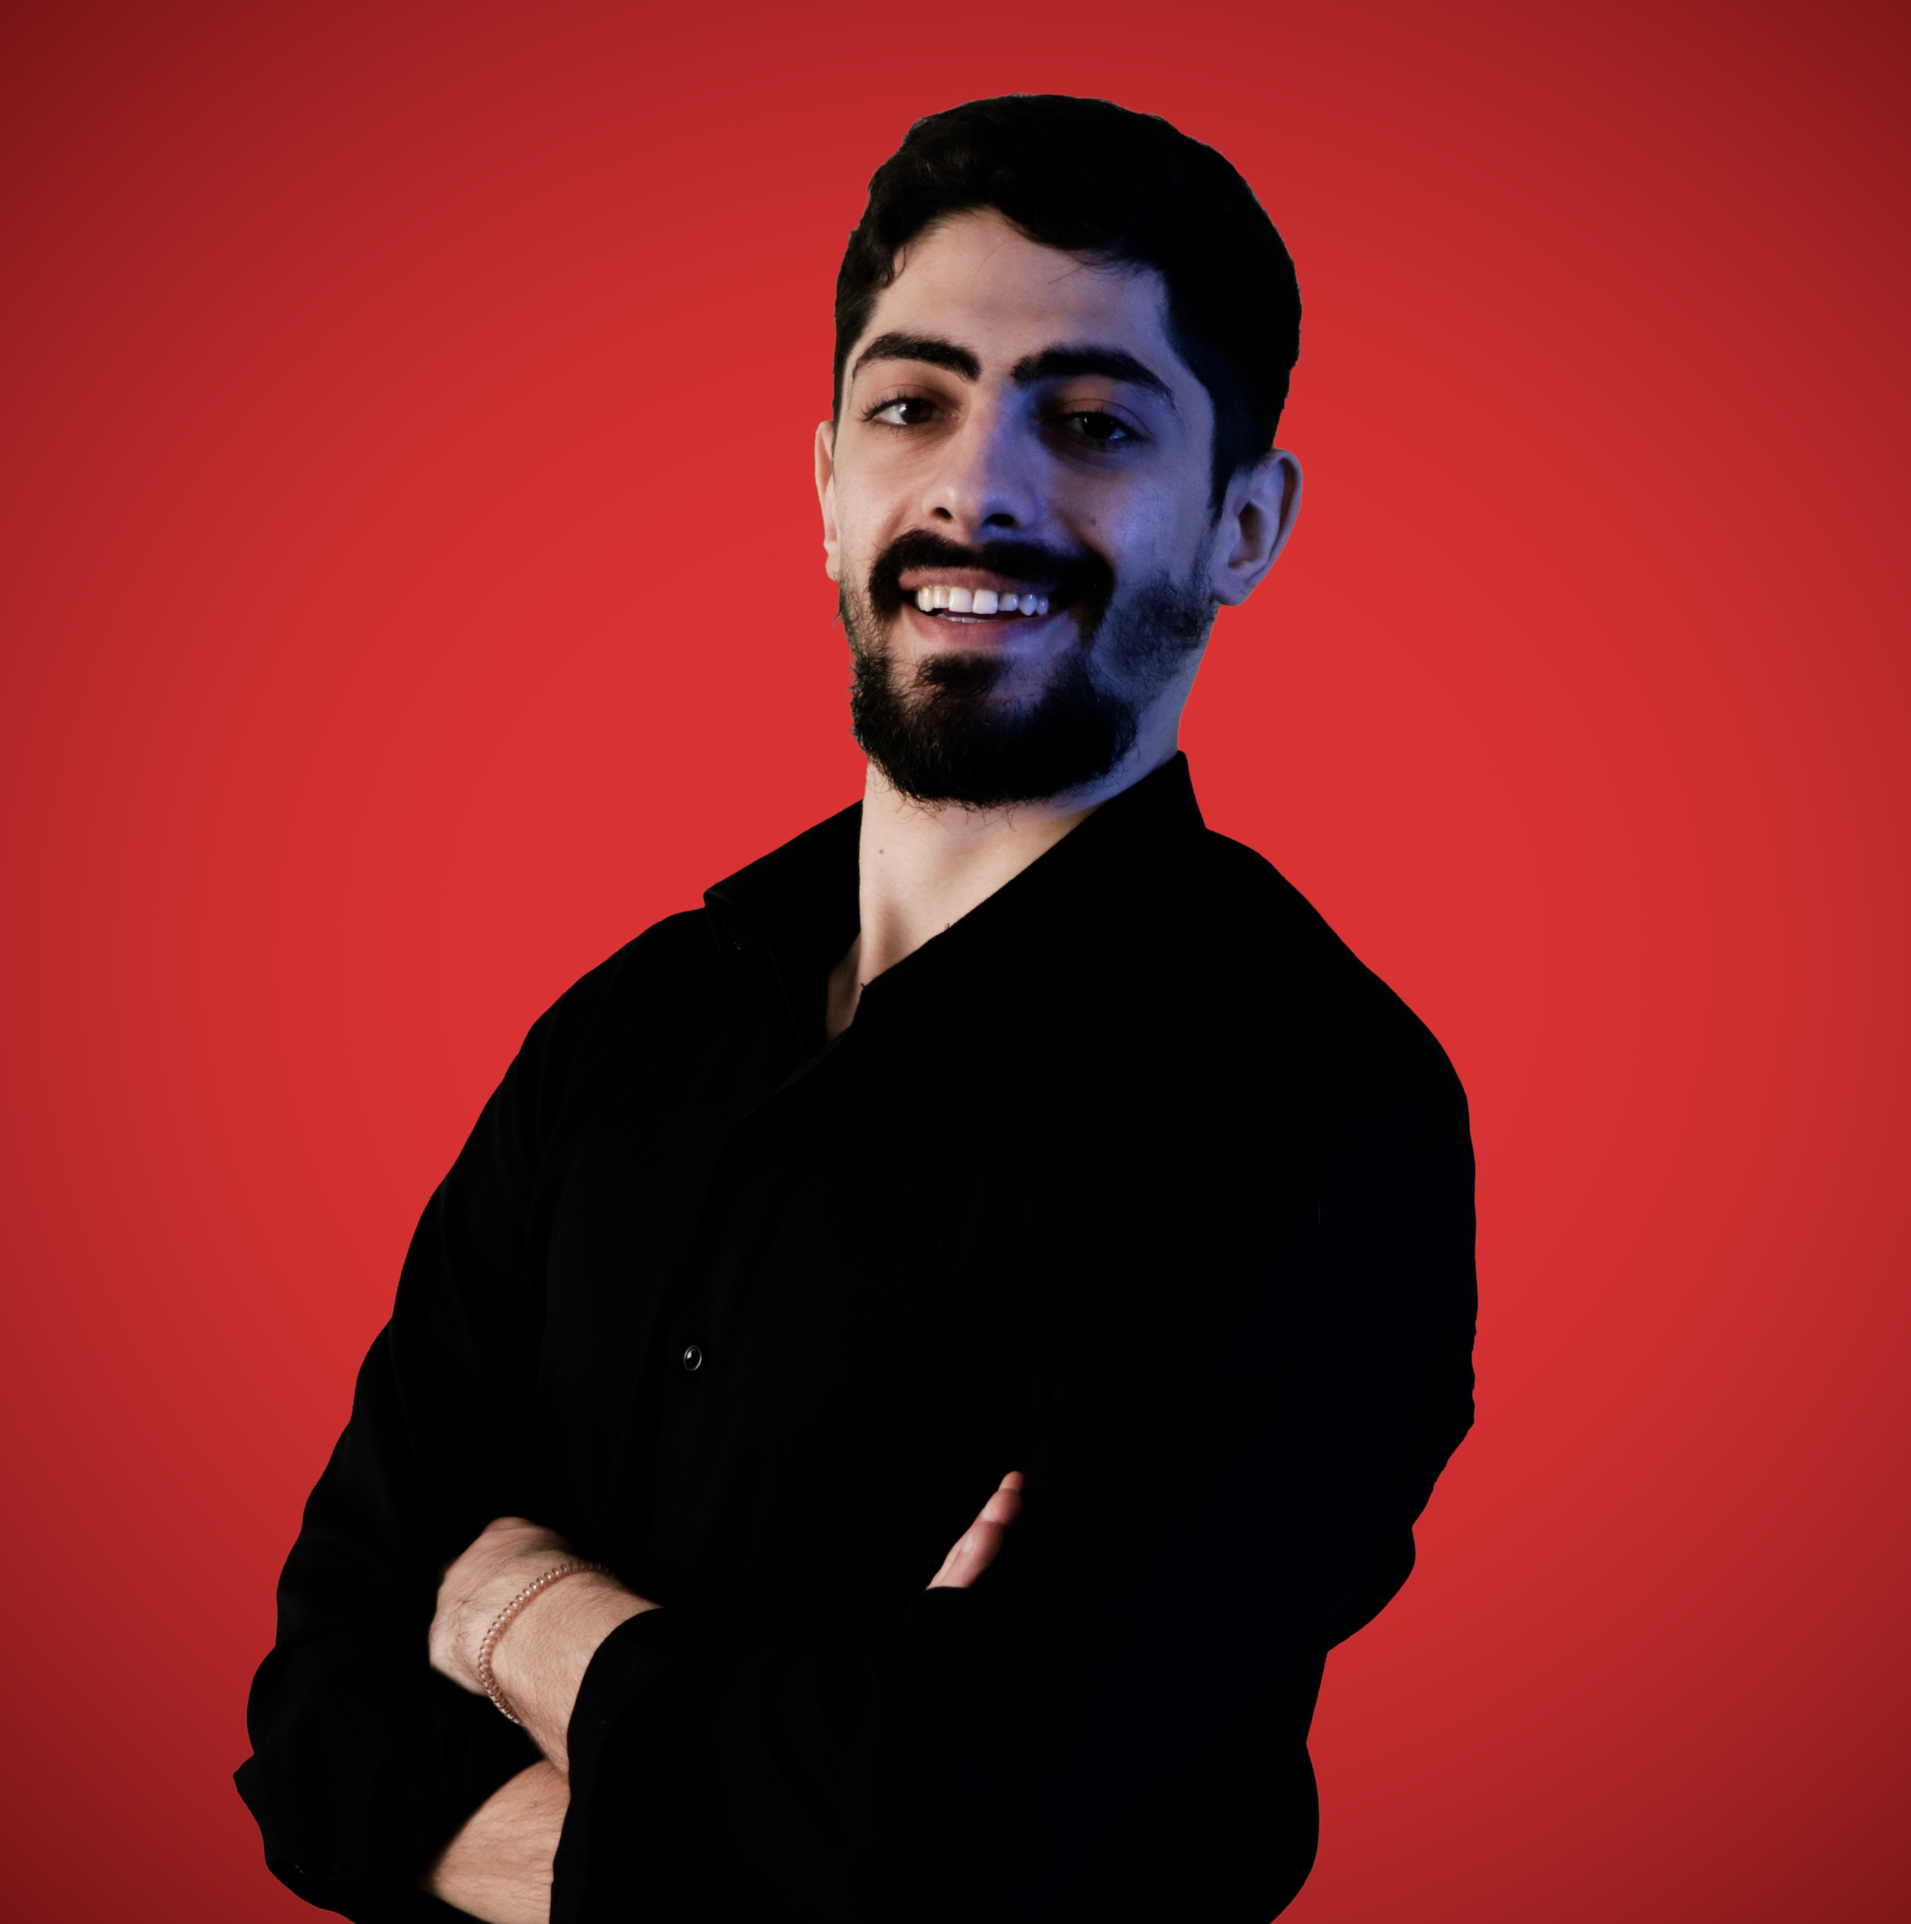
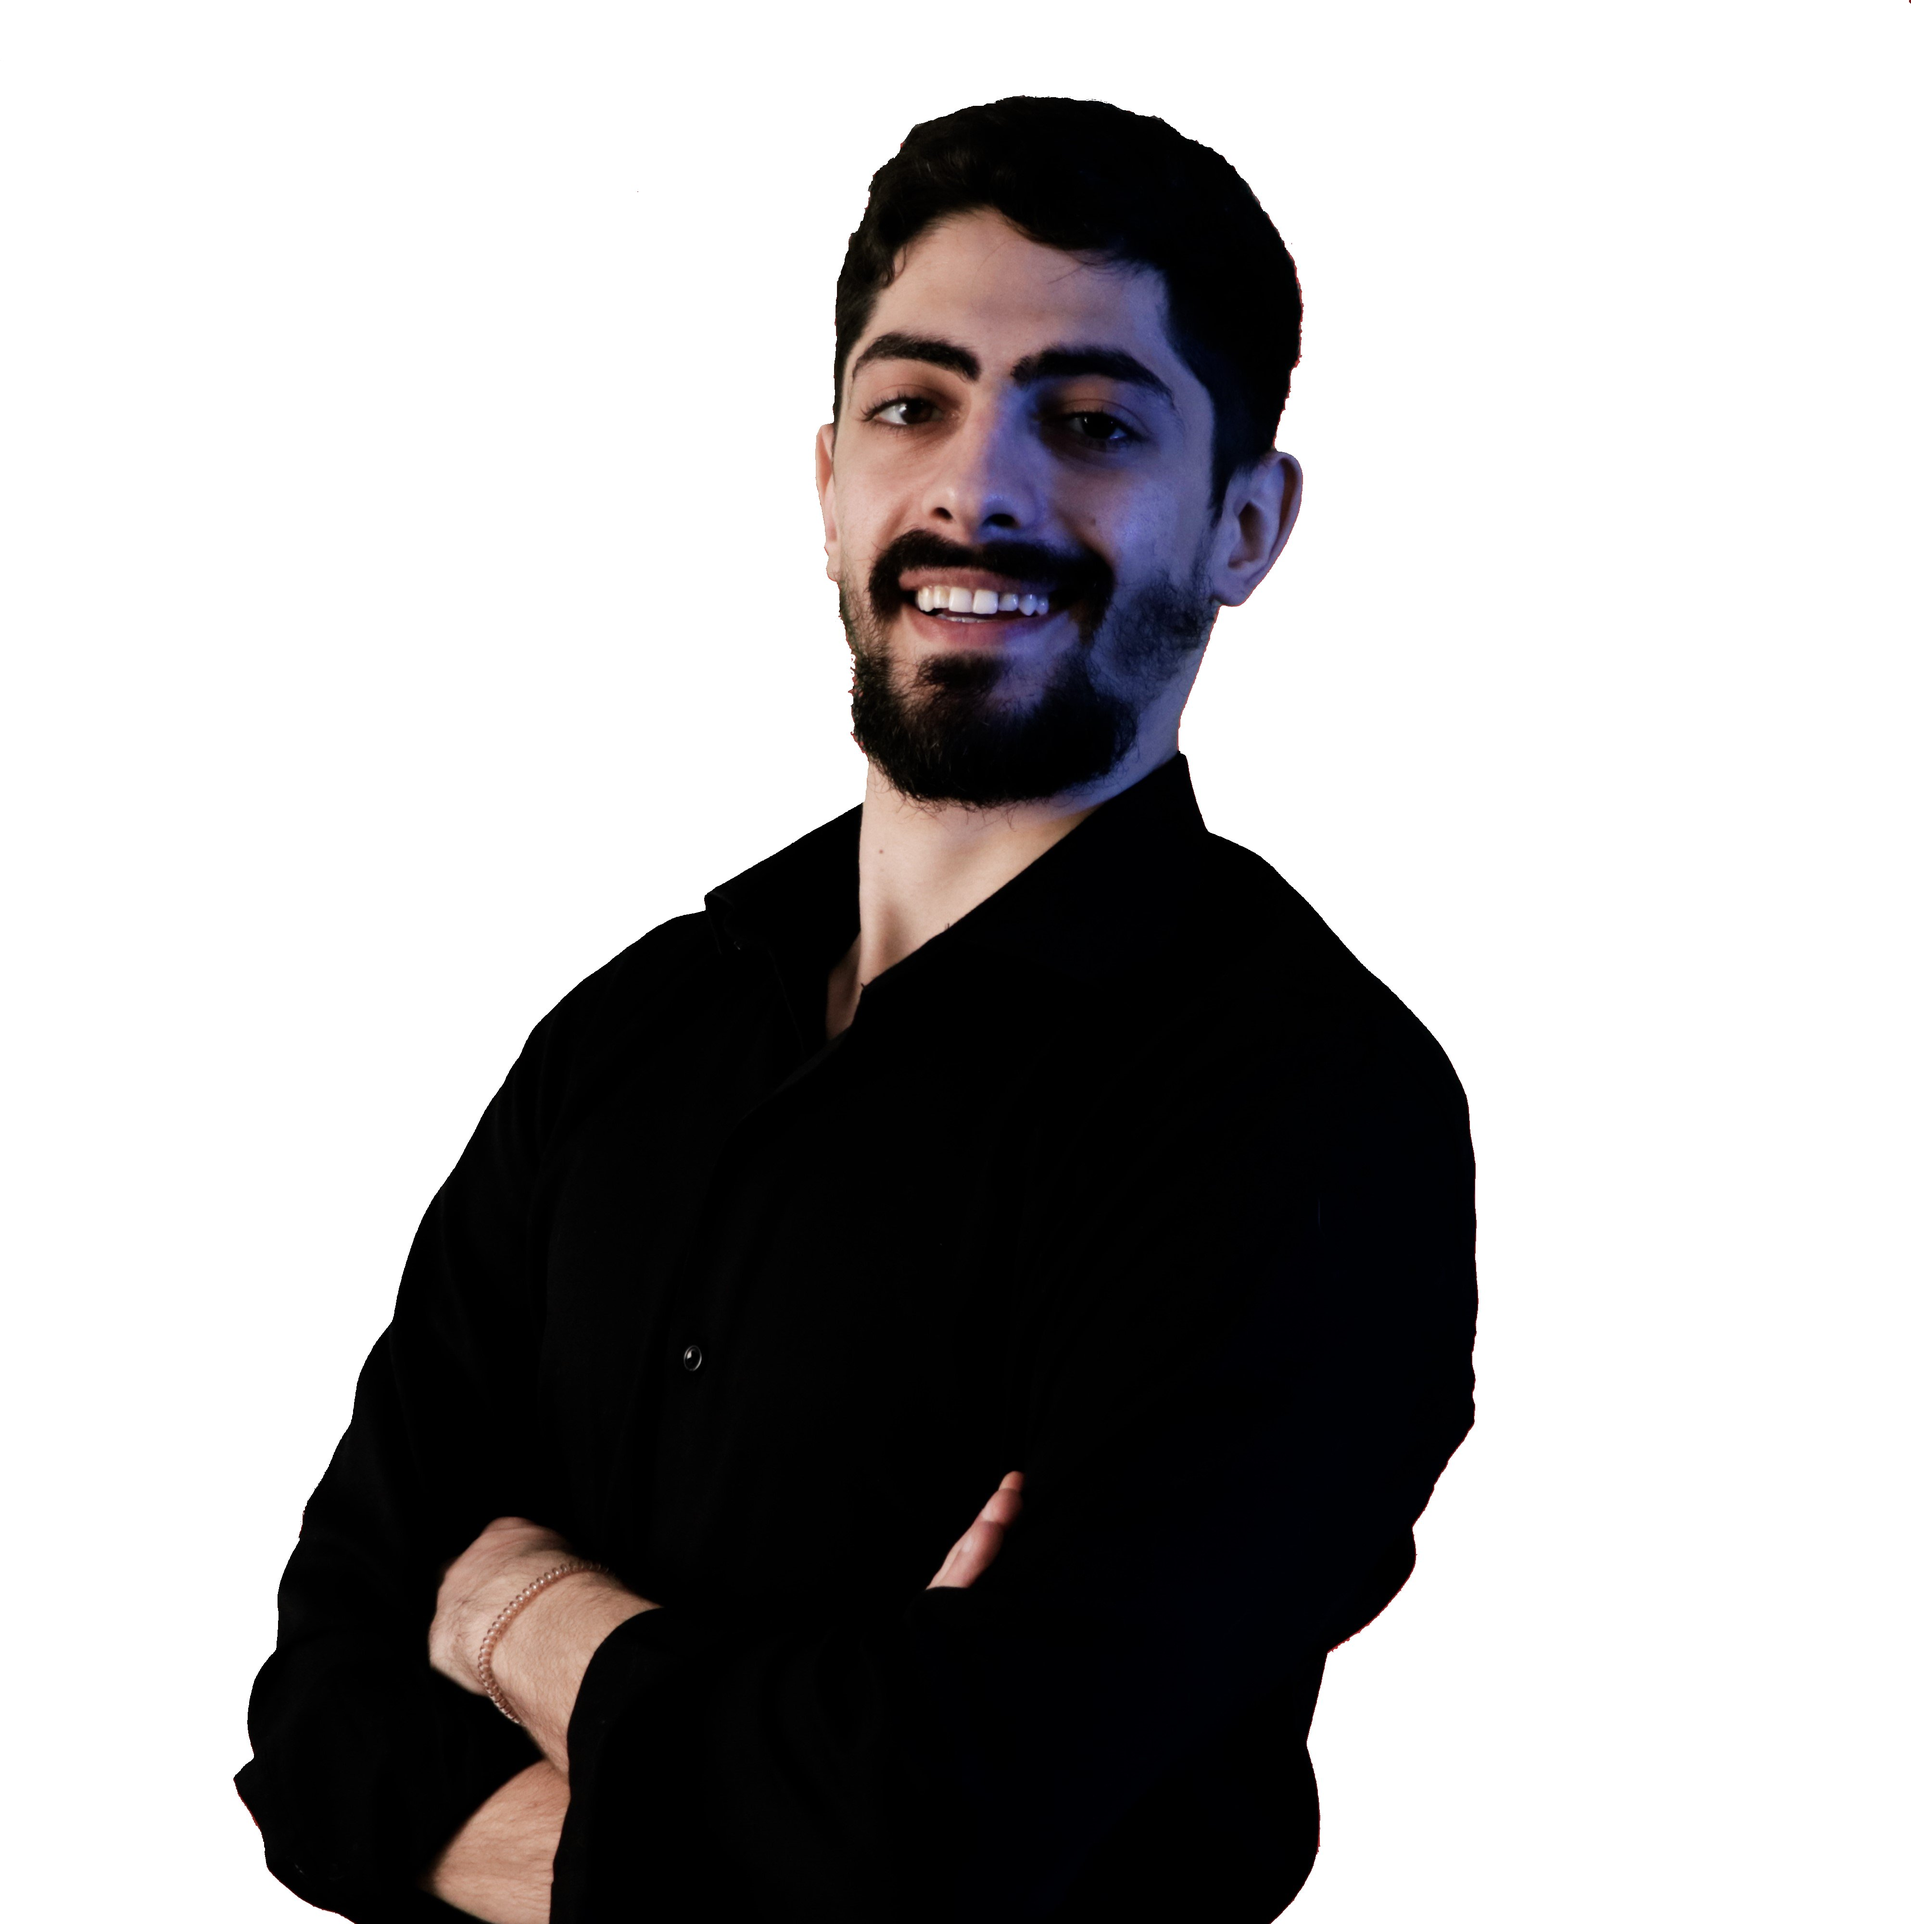
updated the Hero section

diff --git a/src/components/canvas/image.jsx b/src/components/canvas/image.jsx
@@ -4,13 +4,10 @@ import { hassan } from "../../assets";
 
 const MainImage = () => {
     const animationStyle = {
-        // animation: "anim 30s infinite",
-        backgroundColor: "radial-gradient(circle at 0% 0%, hotpink, slateblue)",
-        borderRadius: "30% 70% 70% 30% / 30% 52% 48% 70%",
         boxShadow:
-            "0 -2vmin 4vmin LightPink inset, 0 -4vmin 4vmin MediumPurple inset, 0 -2vmin 7vmin purple inset",
+            "0 -2vmin 4vmin LightPin inset, 0 -4vmin 4vmin MediumPurple inset, 0 -2vmin 7vmin purple inset",
         content: "",
-        filter: "drop-shadow(0 0 3vmin Thistle) drop-shadow(0 5vmin 4vmin Orchid) drop-shadow(2vmin -2vmin 15vmin MediumSlateBlue) drop-shadow(0 0 7vmin MediumOrchid)",
+        // filter: "drop-shadow(0 0 3vmin Thistle) drop-shadow(0 5vmin 4vmin Orchid) drop-shadow(2vmin -2vmin 15vmin MediumSlateBlue) drop-shadow(0 0 7vmin MediumOrchid)",
         height: "50vmin",
         position: "absolute",
         width: "50vmin",
@@ -29,21 +26,12 @@ const MainImage = () => {
                 "50% 50% 53% 47% / 26% 69% 31% 74%",
                 "20% 80% 20% 80% / 20% 80% 20% 80%",
             ],
-            boxShadow: [
-                "0 -2vmin 4vmin LightPink inset, 0 -4vmin 4vmin MediumPurple inset, 0 -2vmin 7vmin purple inset",
-                "box-shadow: none;",
-                "box-shadow: none;",
-                "0 -4vmin 8vmin hotpink inset, -1vmin -2vmin 6vmin LightPink inset, -1vmin -2vmin 4vmin MediumPurple inset, 1vmin 4vmin 8vmin purple inset",
-                "box-shadow: none;",
-                "0 4vmin 16vmin hotpink inset, 0 2vmin 5vmin LightPink inset, 0 4vmin 4vmin MediumPurple inset, 0 6vmin 8vmin purple inset",
-                "box-shadow: none;",
-                "box-shadow: none;",
-                "box-shadow: none;",
-                "box-shadow: none;",
-            ],
+
             transition: {
-                duration: 150,
+                duration: 50,
                 ease: "easeInOut",
+                repeat: Infinity,
+                repeatType: "loop",
             },
         },
     };

diff --git a/src/components/Hero.jsx b/src/components/Hero.jsx
@@ -5,7 +5,8 @@ import { ComputersCanvas, MainImage } from "./canvas";
 
 const Hero = () => {
     return (
-        <section className="relative w-full h-screen mx-auto">
+        <section className="relative w-full h-screen mx-auto ">
+            {/* absolute */}
             <div
                 className={`${styles.paddingX} absolute inset-0 top-[120px] max-w-7xl mx-auto flex flex-row items-start gap-5`}
             >
@@ -25,11 +26,10 @@ const Hero = () => {
                     </p>
                 </div>
             </div>
-            {/* <ComputersCanvas /> */}
-            <div
-                className={`absolute inset-0 top-[250px] right-600 max-w-7xl mx-auto `}
-            >
-                <MainImage />
+            <div className="absolute w-full h-full flex justify-center items-center">
+                <div className="mr-56  sm:mb-56 sm:ml-72">
+                    <MainImage />
+                </div>
             </div>
 
             <div className="absolute xs:bottom-10 bottom-32 w-full flex justify-center items-center">

diff --git a/src/components/canvas/Computers.jsx b/src/components/canvas/Computers.jsx
@@ -2,6 +2,7 @@ import { Suspense, useEffect, useState } from "react";
 import { Canvas } from "@react-three/fiber";
 import { OrbitControls, Preload, useGLTF } from "@react-three/drei";
 import CanvasLoader from "../Loader";
+import MainImage from "./image";
 
 const Computers = ({ isMobile }) => {
     const Computer = useGLTF("./desktop_pc/scene.gltf");
